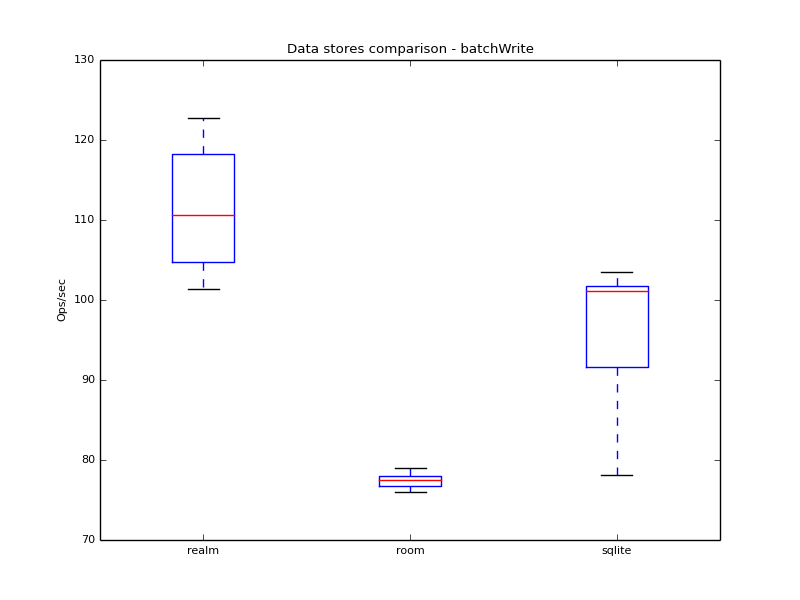
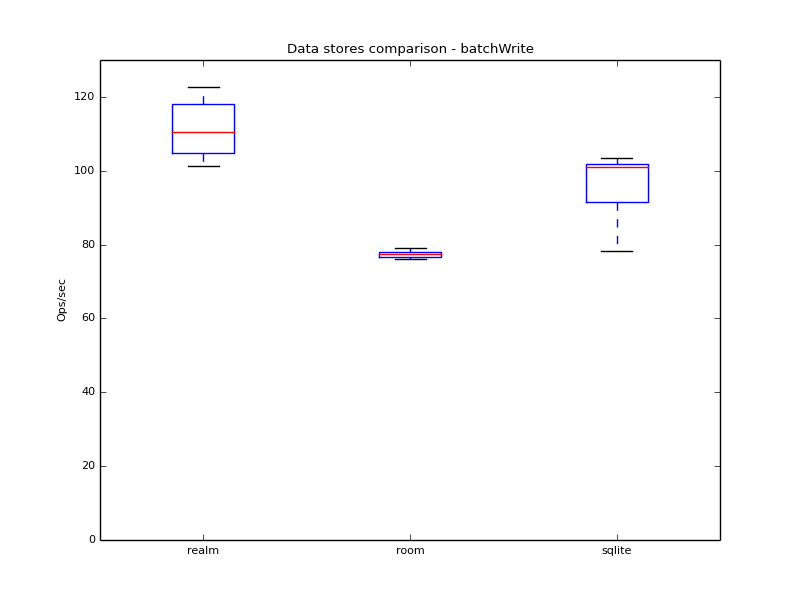
Cleanup. Better docs. Always start y-label at 0.

diff --git a/tools/dsb.py b/tools/dsb.py
@@ -27,11 +27,10 @@ import matplotlib.pyplot as plt
 XKCD_STYLE = False
 
 # List of names of possible tested data stores (see DataStoreTest#getTag())
-# DATASTORES = ['sqlite', 'realm', 'room', 'couchbase']
 DATASTORES = ['sqlite', 'realm', 'room']
 # Number of objects tested. It is assumed that all sub folders contain test data and are named after
 # the number of objects tested, e.g "./1000" or "./10000".
-DATASIZES = ['1000']
+DATASIZES = ['10', '100', '1000']
 
 # The individual benchmarks (see TestDataStore.java)
 TESTS = ['batchWrite', 'simpleWrite', 'simpleQuery', 'fullScan', 'sum', 'count', 'delete']
@@ -77,7 +76,7 @@ def benchmark(datasize):
         plt.ylabel('Ops/sec')
         plt.boxplot(data, whis=1.5, sym='')
         plt.xticks(np.arange(1, len(labels) + 1), labels)
-
+        plt.ylim(ymin=0)
         out_file_name = str(datasize) + '/benchmark_' + test +'.png'
         plt.savefig(out_file_name)
         plt.close()
@@ -123,8 +122,6 @@ def plot_raw(datasize):
 def analyze(datasize):
     """Analyze the raw benchmark data"""
     print 'Analyzing size,' + str(datasize)
-    timer_res = read_timer(datasize)[2] # 3rd line
-    print 'Timer resolution,' + str(timer_res)
     print 'Data store,Test,minimum,average,maximum,bogus,real'
     for datastore in DATASTORES:
         if datastore_benchmarked(datasize, datastore):

diff --git a/tools/convert.py b/tools/convert.py
@@ -3,11 +3,8 @@ import os
 import re
 import sys
 
-#
 # Read output from Android benchmarks and convert it to the output we used in our own benchmarks
-#
 # This script requires that the benchmark file is placed next to the script
-#
 with open('io.realm.benchmark.test-benchmarkData.json', 'r') as benchmarkResults:
     # parse file
     results = json.loads(benchmarkResults.read())

diff --git a/README.md b/README.md
@@ -121,16 +121,9 @@ varied.
 
 Run the benchmark the following way:
 
-1. Set `NUMBER_OF_OBJECTS` in `app/src/main/java/io.realm.datastorebenchmark.Constants.java`.
-   The rest of this guide assumes `1000`, which is also the default value.
+1. Run the following command
 
-2. Deploy the app to the phone or emulator. It will auto-start and report *Done*
-   in the UI when complete. Don't touch the phone while it is running.
-
-       > ./gradlew installDebug
-       
-       > adb shell am start -a android.intent.action.MAIN -n io.realm.datastorebenchmark/io.realm.datastorebenchmark.MainActivity
-
+       > ./gradlew clean benchmarkReport
 
 ## How to analyse - TLDR
 
@@ -140,13 +133,13 @@ The benchmark results from the supported datastores are analyzed the following w
 
        > cd tools
 
-2. Copy all results from the phone/emulator using ADB to folder named after
-   `NUMBER_OF_OBJECTS`:
+2. Copy all results from the phone/emulator using ADB
 
-       > adb pull /sdcard/datastorebenchmark/ ./1000
+       > adb pull /sdcard/Download/io.realm.benchmark.test-benchmarkData.json
 
-3. Run python script:
+3. Run the following python scripts
 
+       > python convert.py
        > python dsb.py -b -p -s
 
 4. Benchmark plots can be found in `./1000/benchmark_<TEST>.png` The plots are
